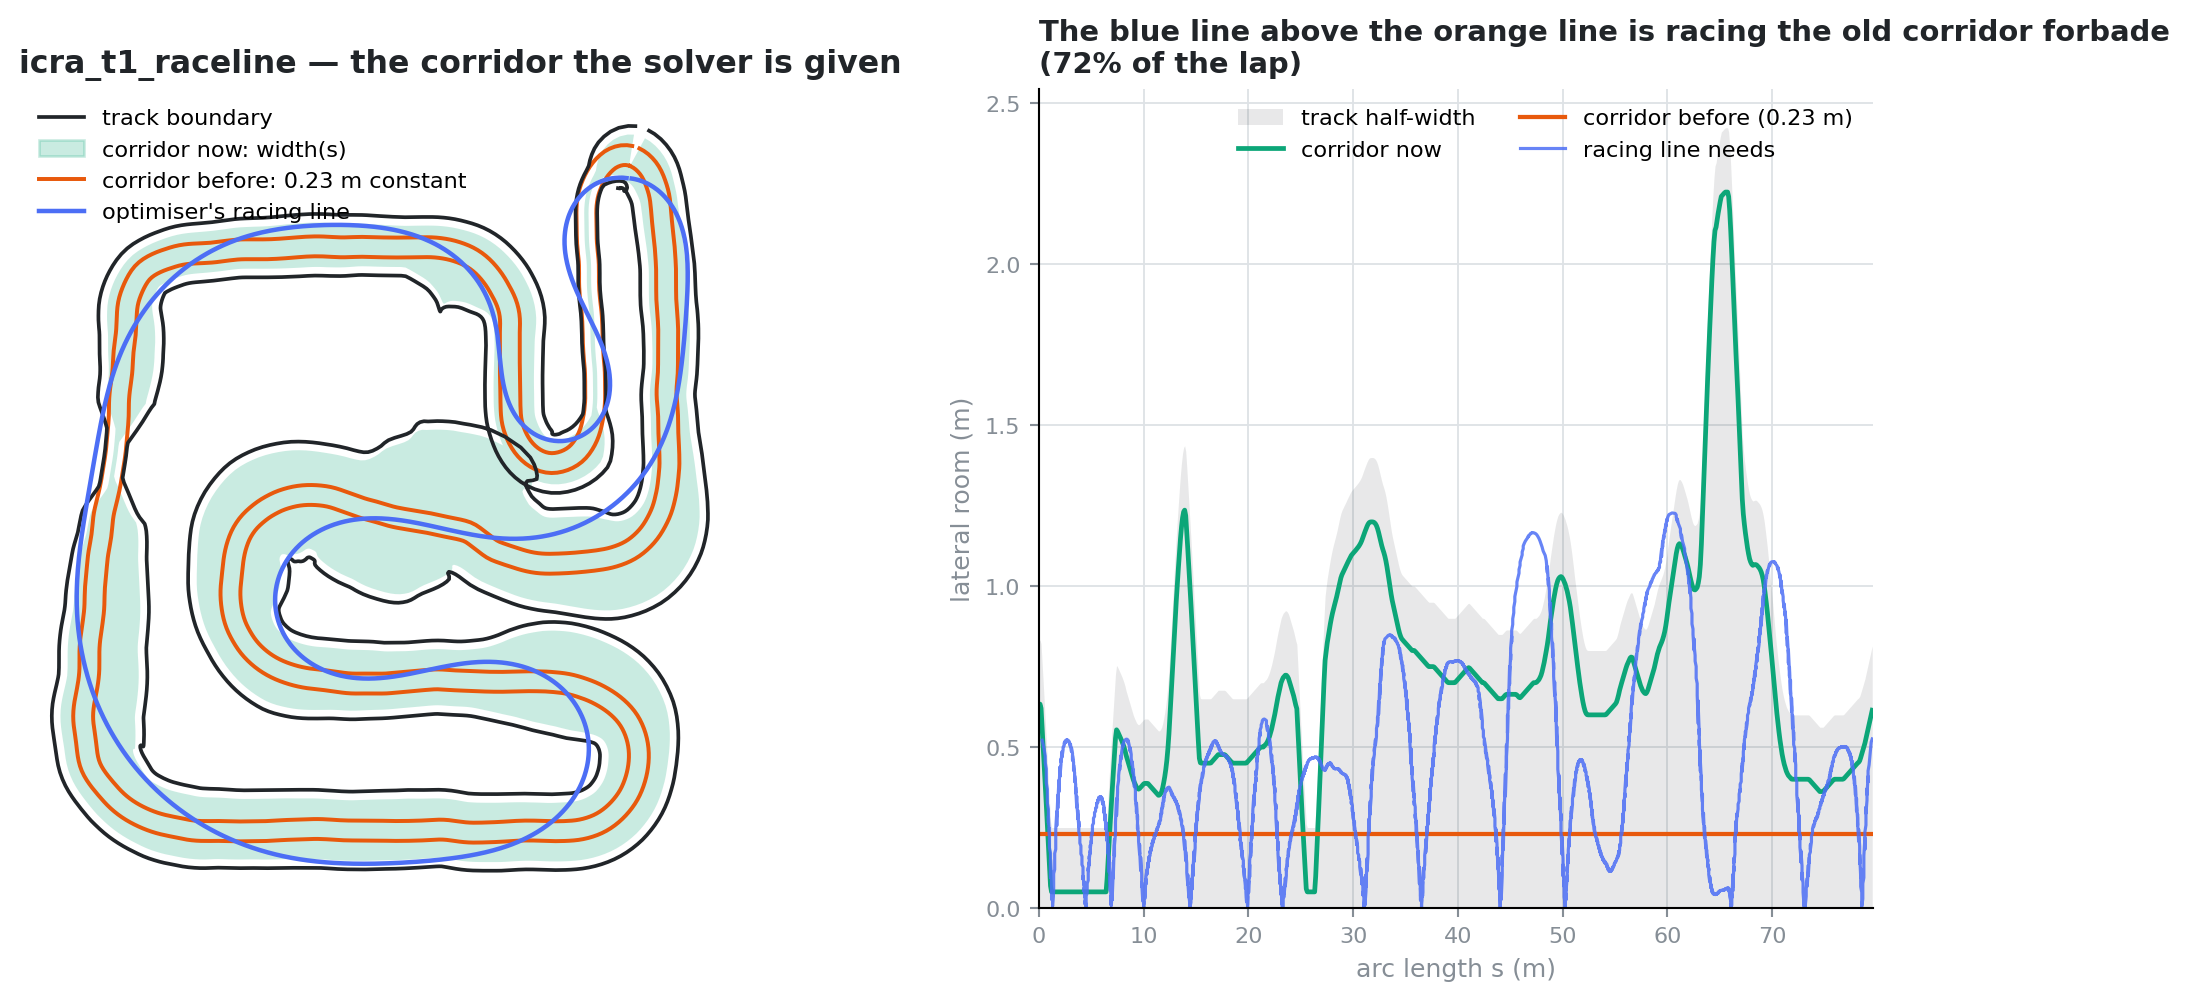
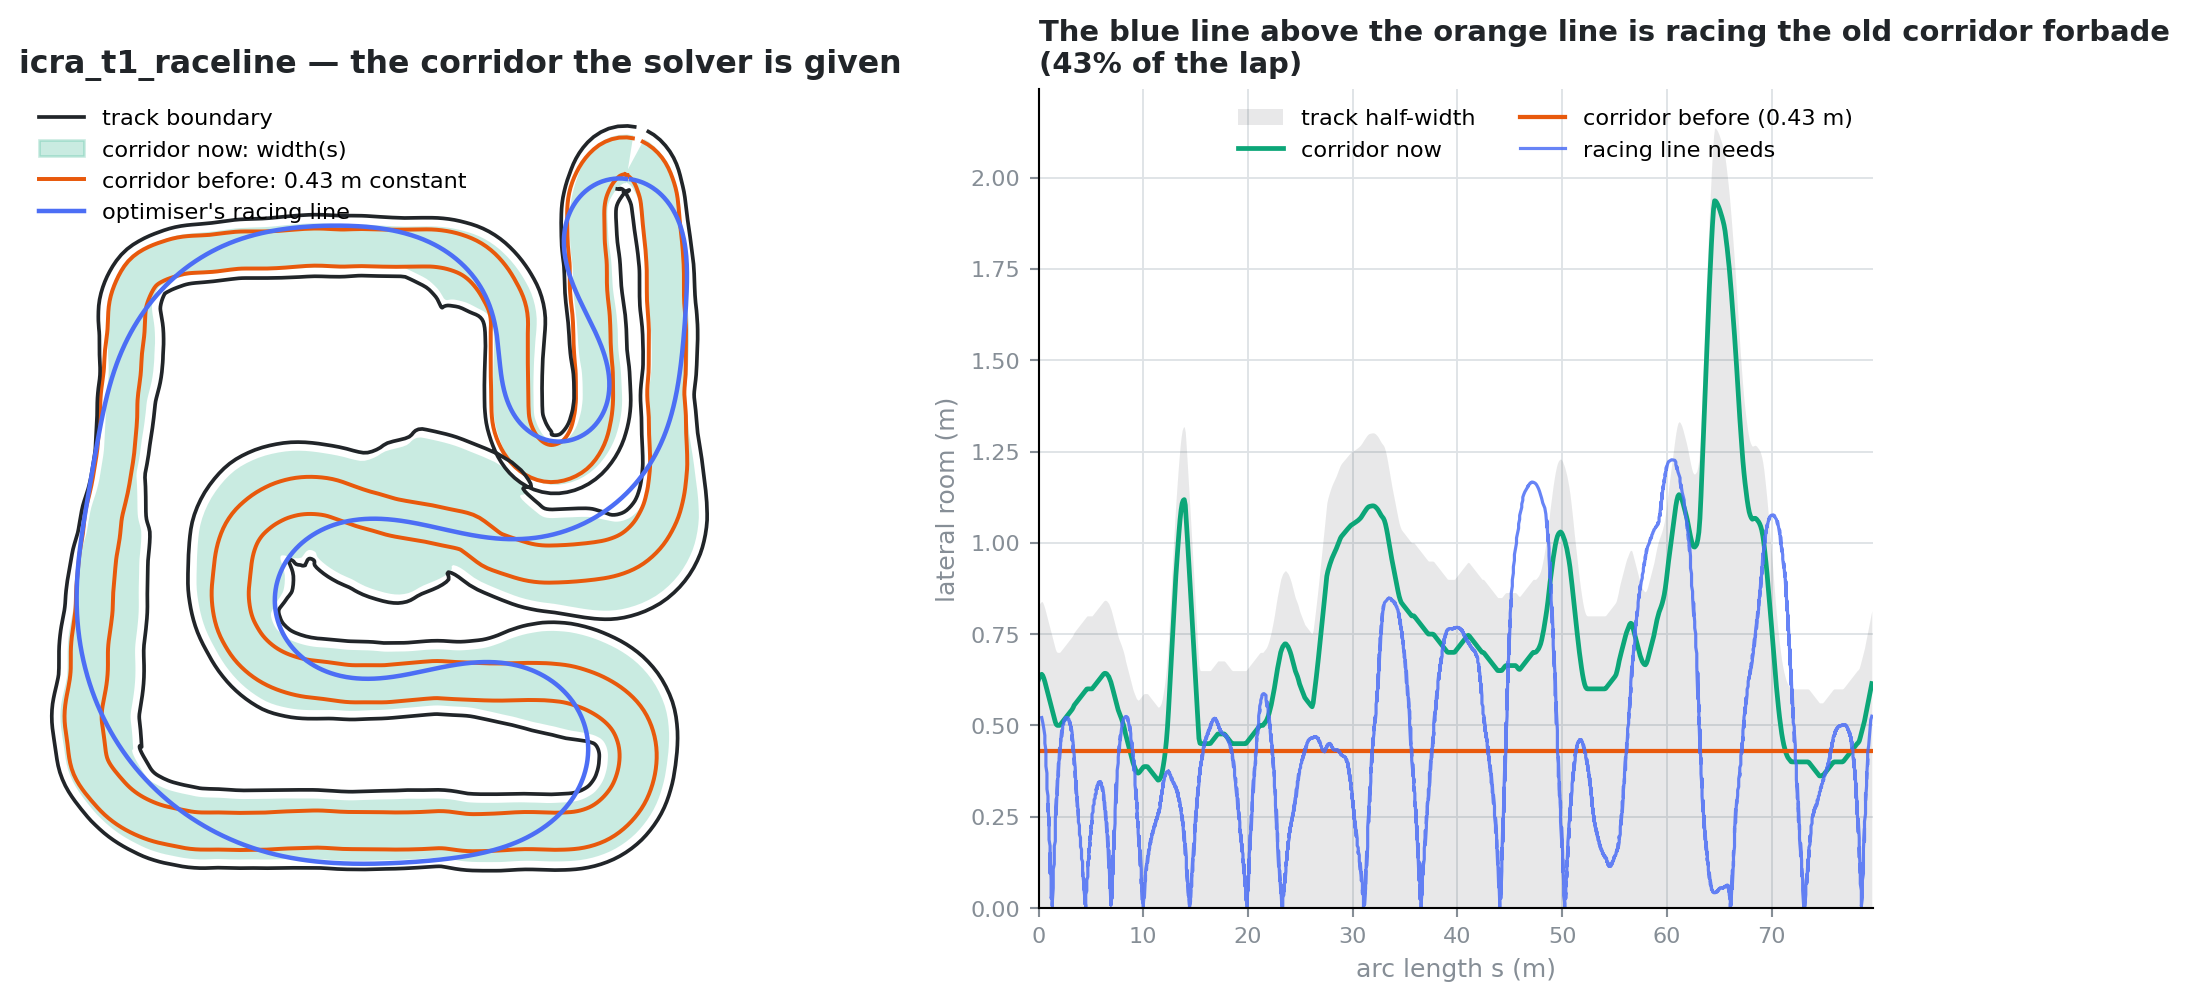
Cone bridge back to 21 px; raycast capped at the optimiser's margin + 0.6 m
31 px welded the chicane's two cone columns into one block with the
centreline inside it (56 of 796 points in an obstacle) and did not close
the leak it was meant to, which is between the round island and the
first cone of a row, not between cones. Reverted.

The leak is bounded physically instead. The optimiser's margin is the
room it left for the car's centre after its own safety allowance, so the
true wall sits that allowance plus a little further out -- measured on
this map +0.18 m at the median, +0.20 m at the tightest point. The
raycast may exceed the margin by at most 0.6 m: every legitimate
fraction of a metre is kept, a metre-scale leak into the infield is not.

Claude-Session: https://claude.ai/code/session_01R9WJUKR7ub5e8S1C65Xx76

diff --git a/mpcc_tuning/track.py b/mpcc_tuning/track.py
@@ -438,7 +438,7 @@ class Track:
 
     @staticmethod
     def _map_widths(centre, stem, max_m: float = 3.0, both_sides: bool = False,
-                    dilate_m: float = 0.10, bridge_px: int = 31):
+                    dilate_m: float = 0.10, bridge_px: int = 21):
         """Perpendicular room along ``centre``, from the occupancy grid.
 
         By default the symmetric usable half-width, min(left, right) at each
@@ -460,11 +460,11 @@ class Track:
         spec.loader.exec_module(cl)
         im, res, org = cl.load(str(pgm), str(yml))
         H, W = im.shape
-        # bridge_px=21 (1.05 m) joins the MEDIAN cone spacing; the row along
-        # T1's middle straight has a gap of about 1.2 m centre-to-centre and
-        # the default left it open, so the ray slipped between two cones and
-        # reported 2.3 m of room on a 1.4 m corridor. 31 px (1.55 m) closes
-        # it; the guard below checks nothing drivable got walled off.
+        # bridge_px stays at the tool's default (21 px, 1.05 m): 31 px was tried
+        # and welded the chicane's two cone columns into one block with the
+        # centreline inside it. The leak this was meant to close is between the
+        # round island and the first cone of a row, and is bounded by the cap
+        # in _raceline instead.
         occ = cl.connect_cone_rows(im <= 50, bridge_px=bridge_px)
         # Close the gaps between cones BEFORE raycasting. The rows are drawn
         # as dots; where connect_cone_rows leaves a gap the ray slips through
@@ -614,11 +614,14 @@ class Track:
                 # a 0.9 m track, drawing the corridor into the infield. Two
                 # guards. (1) The optimiser's own margin is conservative but
                 # never wrong about which side of the wall the track is on,
-                # so the raycast may not exceed twice it. (2) An isolated
+                # so the raycast may exceed it by at most 0.6 m -- the optimiser's
+                # own safety allowance plus a little (measured +0.18 m median,
+                # +0.20 m at the tightest point on this map). (2) An isolated
                 # excursion above 1.6x the rolling median over +-1.5 m is a
                 # leak, not a widening, and is clamped to that median.
                 def _guard(w, ref):
-                    w = np.minimum(np.asarray(w, float), 2.0 * np.asarray(ref, float))
+                    ref = np.asarray(ref, float)
+                    w = np.minimum(np.asarray(w, float), ref + 0.6)   # margin + the optimiser's own safety allowance, never a metre-scale leak
                     m = max(int(round(3.0 / max(step, 1e-9))) | 1, 5)
                     pad = np.concatenate([w[-(m // 2):], w, w[:m // 2]])
                     med = np.array([np.median(pad[i:i + m]) for i in range(len(w))])
